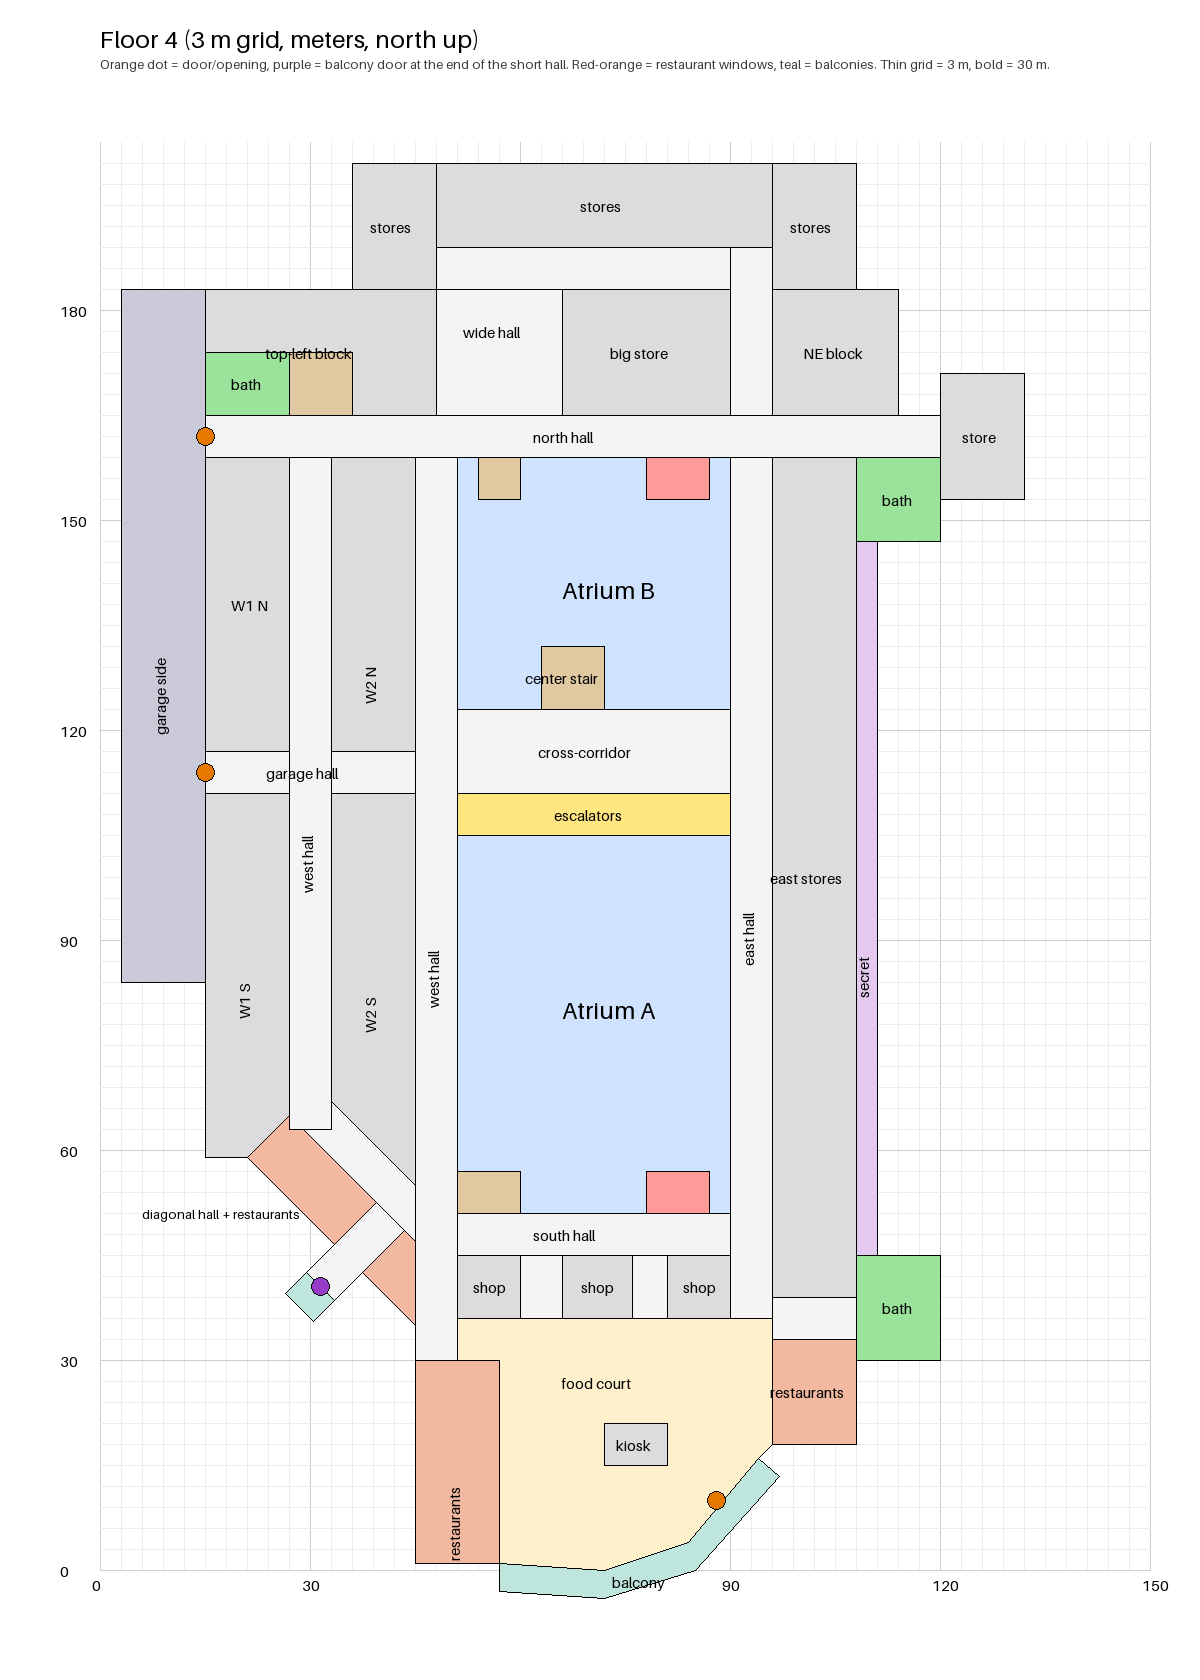
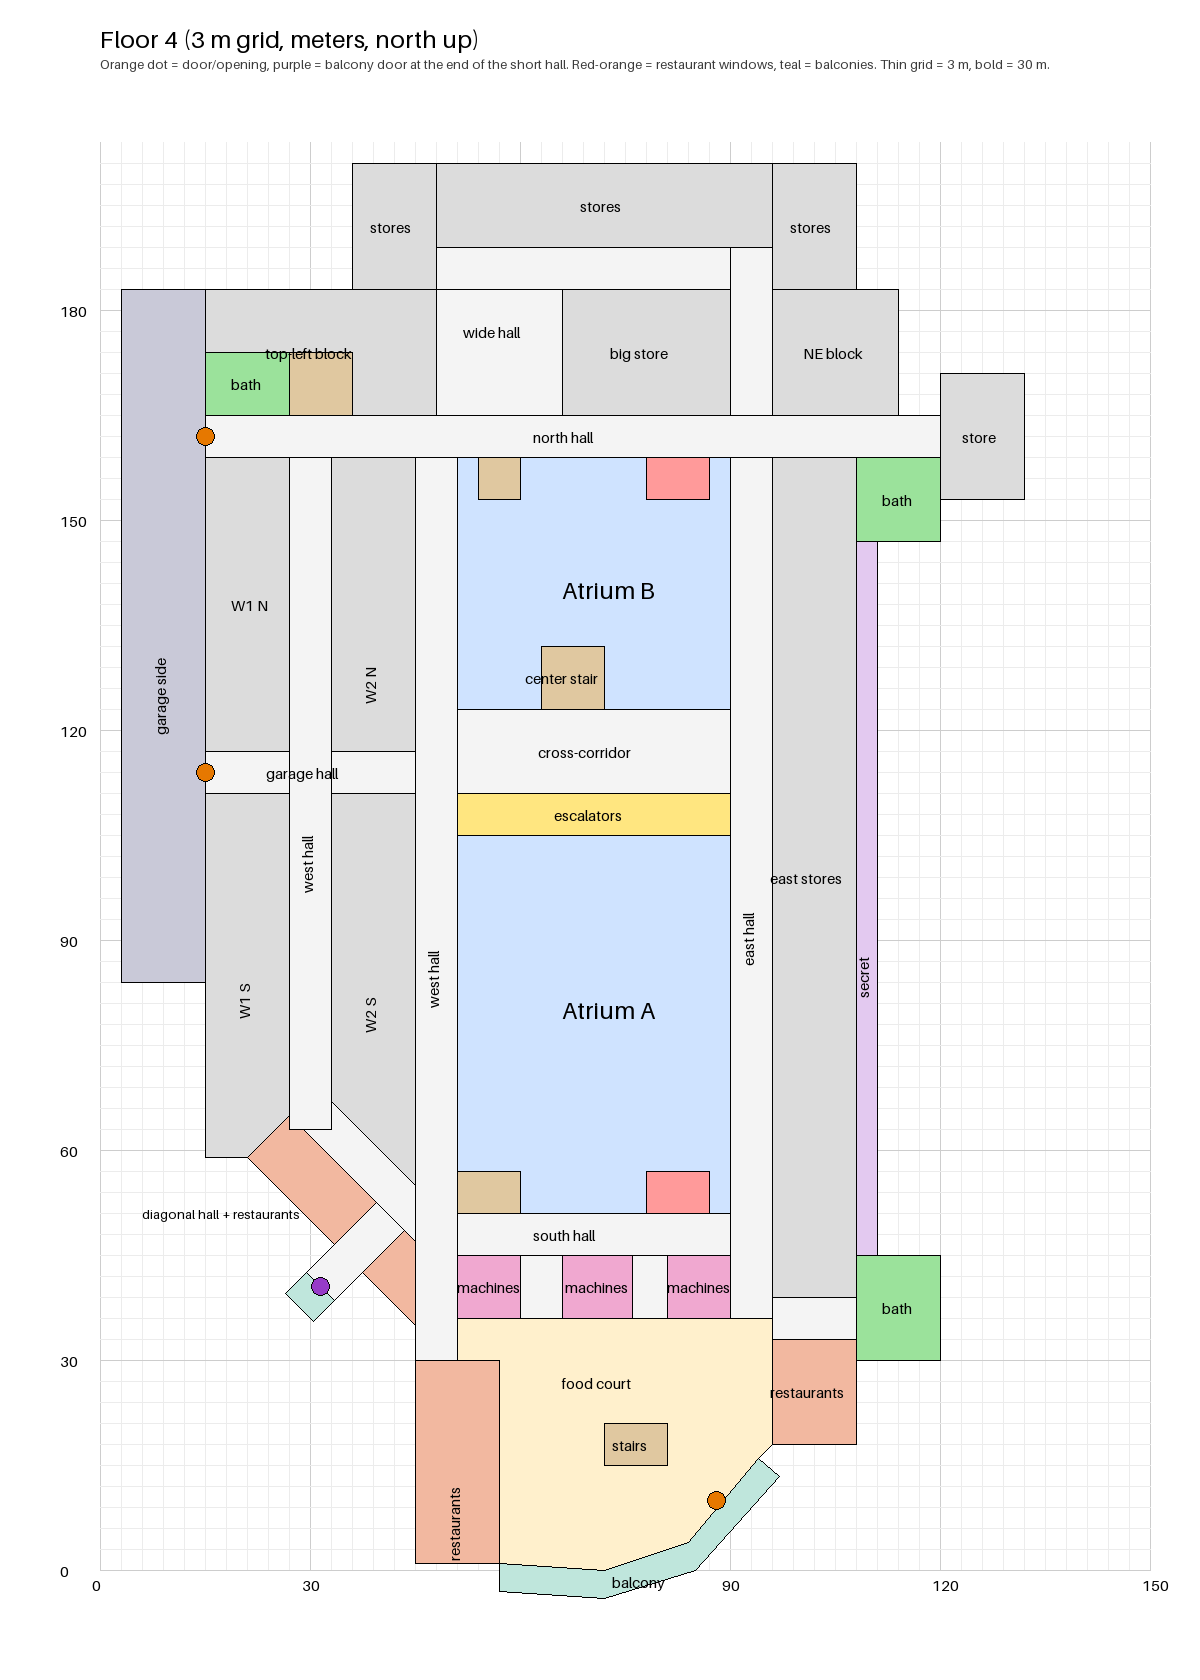
top floors foodcourt update

diff --git a/docs/floorplans/build_floorplans.py b/docs/floorplans/build_floorplans.py
@@ -110,7 +110,7 @@ BALCONIES = [
 
 COLORS = {"void": "#cfe3ff", "hall": "#f4f4f4", "elevator": "#ff9a9a", "stairs": "#e0c8a0",
           "escalator": "#ffe680", "shop": "#dcdcdc", "bath": "#9be29b", "garage": "#c9c9d8",
-          "secret": "#e3c9f0", "foodcourt": "#fff0cc", "restaurant": "#f2b8a0", "balcony": "#bfe6dc"}
+          "secret": "#e3c9f0", "kiosk": "#f7d774", "machines": "#f0a8d0", "foodcourt": "#fff0cc", "restaurant": "#f2b8a0", "balcony": "#bfe6dc"}
 WALKABLE = {"void", "hall", "bath", "garage", "secret", "foodcourt", "balcony"}
 
 
@@ -123,6 +123,13 @@ def floor_items(floor):
             k = side_kind
             if floor > 1:
                 l = l.replace("West block", "Restaurant windows (west)").replace("East block", "Restaurant windows (east)")
+        if floor > 1 and i == "walkin_kiosk":
+            l, k = "Stairs between floors 2, 3 and 4 (replaces the kiosk)", "stairs"
+        if floor > 1 and i.startswith("south_shop_"):
+            if floor == 2:
+                l, k = "Kiosk", "kiosk"
+            else:
+                l, k = "Candy / toy coin machines", "machines"
         items.append((i, l, ("box", (a, b, c, d)), k))
     for i, l, p, k in POLYS:
         if i == "south_area" and floor > 1:
@@ -181,7 +188,7 @@ def check(items, R=0.5):
 LABELS = {"atrium_b": "Atrium B", "atrium_a": "Atrium A", "cross_corridor": "cross-corridor", "parking": "garage side",
           "secret_hall": "secret", "big_store": "big store", "west_2n": "W2 N", "west_2s": "W2 S", "west_n": "W1 N",
           "west_s": "W1 S", "hall_north": "north hall", "ne_block": "NE block", "top_left_block": "top-left block",
-          "north_stores": "stores", "north_stores_w": "stores", "north_stores_e": "stores", "walkin_kiosk": "kiosk",
+          "north_stores": "stores", "north_stores_w": "stores", "north_stores_e": "stores", "walkin_kiosk": "kiosk", 
           "nw_bath": "bath", "ne_bath": "bath", "se_bath": "bath", "b_center_stair": "center stair",
           "a_escalators": "escalators", "n_hall_up": "wide hall", "east_stores": "east stores", "ne_end_store": "store",
           "south_hall": "south hall", "south_shop_1": "shop", "south_shop_2": "shop", "south_shop_3": "shop",
@@ -232,6 +239,10 @@ def render(floor, items, doors):
         txt = LABELS.get(i)
         if i in ("east_side_south", "west_side_south"):
             txt = "restaurants" if floor > 1 else "stores"
+        if floor > 1 and i == "walkin_kiosk":
+            txt = "stairs"
+        if floor > 1 and i.startswith("south_shop_"):
+            txt = "kiosk" if floor == 2 else "machines"
         if txt:
             x, y = T((v[0] + v[1]) / 2, (v[2] + v[3]) / 2)
             if i in VERTICAL:

diff --git a/docs/floorplans/floor1_notes.md b/docs/floorplans/floor1_notes.md
@@ -133,7 +133,8 @@ Files: `floor1_plan.png` and `floor1_plan.json` (generated by `build_floorplans.
 Generated by `build_floorplans.py` into `floor2_plan.png/.json`, `floor3_plan.png/.json`, `floor4_plan.png/.json`. They copy floor 1's layout, with these differences (decided by Augusto):
 
 - **The entrance lobby becomes a food court** (the south end of each upper floor).
-- **Restaurant windows instead of stores** along the food court's sides: the west block, the east block south of the short hall, and the stores on the south-west side of the diagonal hall. The walk-in kiosk stays as an island.
+- **Restaurant windows instead of stores** along the food court's sides: the west block, the east block south of the short hall, and the stores on the south-west side of the diagonal hall. The walk-in kiosk is replaced by a staircase connecting floors 2, 3 and 4 (floor 1 keeps the kiosk).
+- **The 3 shops south of Atrium A** are 3 kiosks on floor 2 and 3 candy / toy coin-machine stands on floors 3 and 4.
 - **Balconies instead of the main doors and street access:** a balcony along the food court's south and south-east wall (where the main entrance is on floor 1), and a small one at the end of the short hall (where the purple side exit is on floor 1).
 - **Not decided, copied as is:** the garage side (west strip) and its two connections stay on every floor; the atriums stay open voids; the stairs, elevators and escalators sit in the same places on every floor.
 - **Kept out of the picture so far:** per-floor differences beyond the above (names of food court restaurants, what is on the balconies, what the atrium railings look like).
